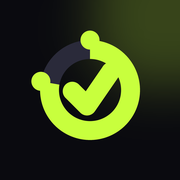
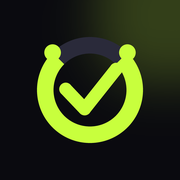
Иконка: разрыв кольца сверху, галочка внутри без пересечений; sw кеш v4

Changed region(s): [[0.1667, 0.1667, 0.8056, 0.8056]]

diff --git a/sw.js b/sw.js
@@ -1,4 +1,4 @@
-const CACHE='tempo-v3';
+const CACHE='tempo-v4';
 const ASSETS=['index.html','manifest.json','icon-180.png','icon-512.png'];
 self.addEventListener('install',e=>{
   self.skipWaiting();